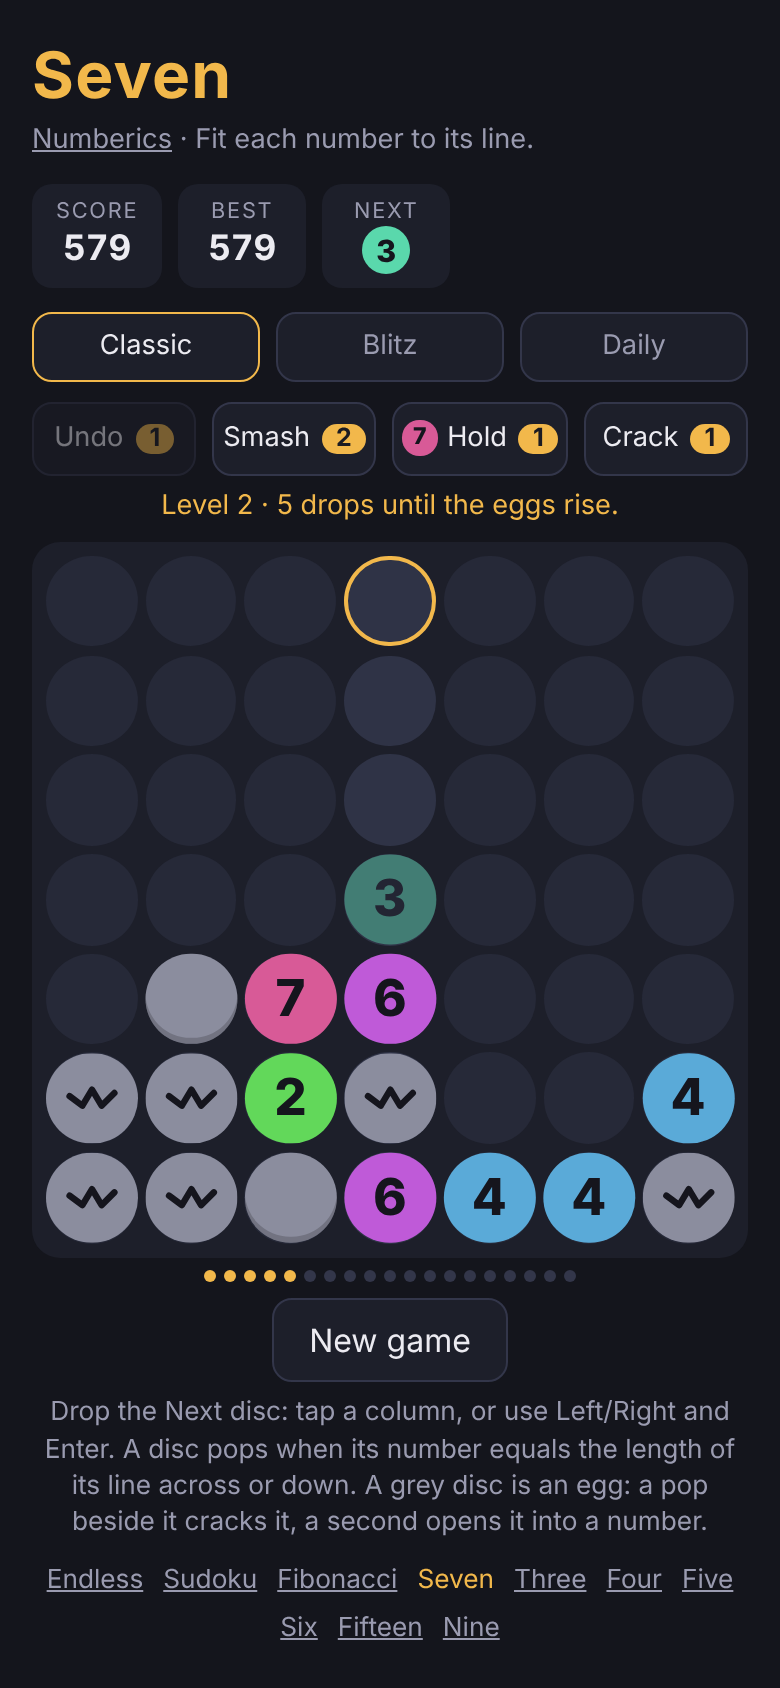
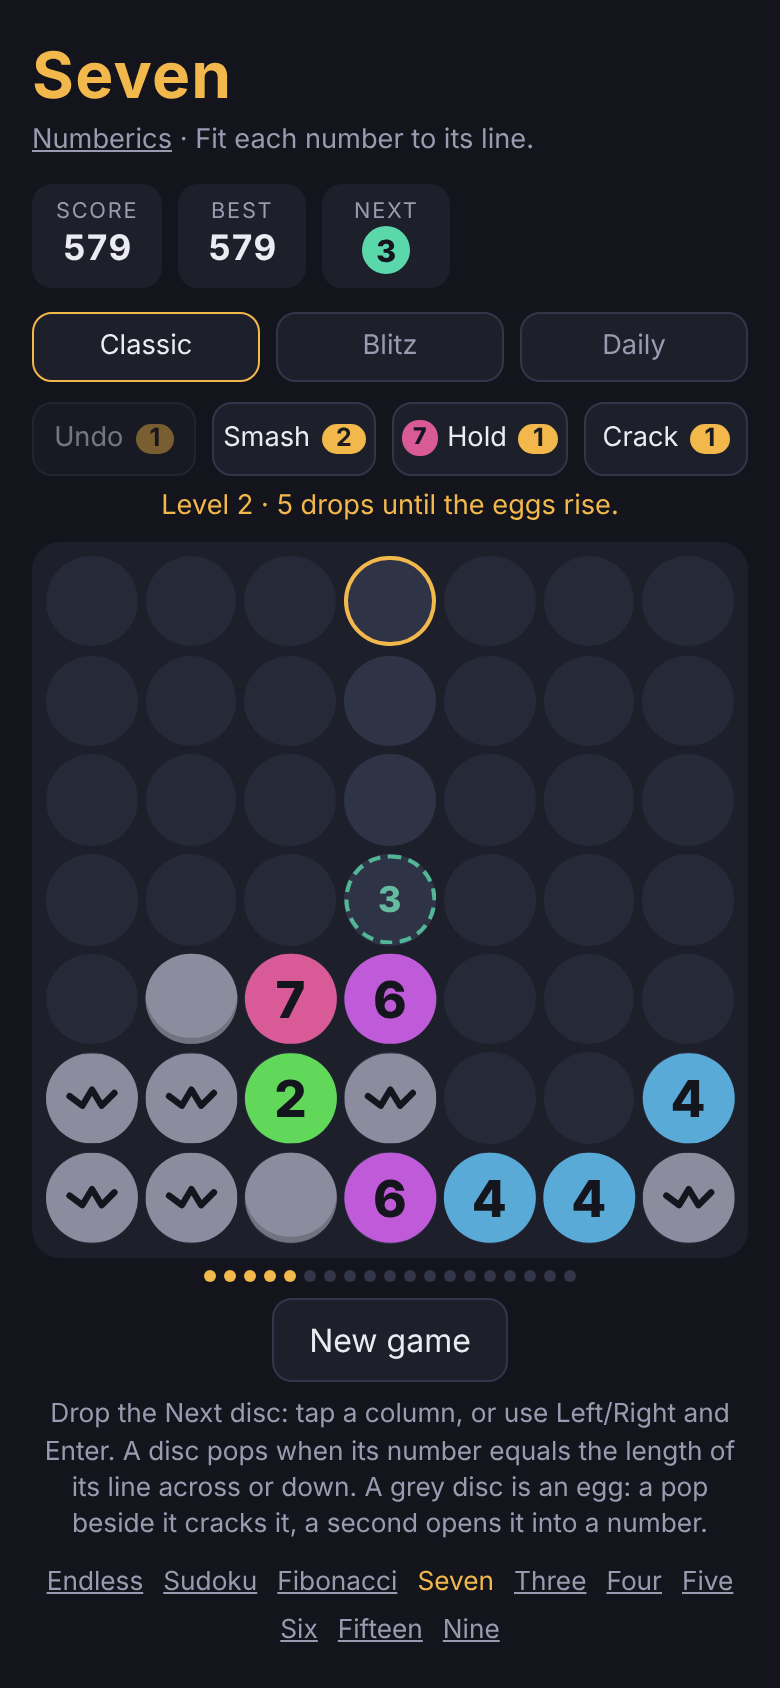
Seven: round 3 fixes
An overflow with Undo in stock offers Undo the last drop or End the run;
rewards skip Undo once three are held; the preview is a dashed outline; one
end-card pattern; empty Best reads none; discs no longer drift while they
appear (translate property, not transform).

diff --git a/seven/game.js b/seven/game.js
@@ -192,7 +192,7 @@
     } else if (state.over) {
       $("over-title").textContent = N.hasRoom(state.grid) ? "The well overflowed" : "No room left";
       var u = state.used;
-      $("over-text").textContent = "Level " + state.level + (u ? " · " + u + (u === 1 ? " power-up" : " power-ups") + " used" : "") +
+      $("over-text").textContent = "Level " + state.level + (u ? " · " + u + (u === 1 ? " power-up" : " power-ups") : "") +
         " · score " + K.fmt(state.score);
       $("over-best").hidden = !(state.score > start[mode]);
     }
